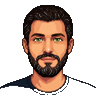
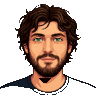
art(ch4,ch5): rehace busts derivando de bases aprobadas (no forge) — ch4=ch3+barba, ch5=ch2+barba
Rafael: "arruinaste ch5 (barba recta irreal), usa de base ch2 pero con barba;
ch4 es ch3 pero con la barba apenas más larga". El enfoque forge driftaba; ahora
se derivan de busts aprobados con edición PIL mínima.

ch4 (iter7): copia exacta de ch3-bust + barba extendida ~4 filas en punta natural.
ch5 (iter19): copia exacta de ch2-bust + barba castaño oscuro pintada siguiendo la
mandíbula (textura orgánica, borde irregular, punta natural) + pelo oscurecido de
gris a castaño (pedido de Rafael). Ambos transparentes, validados en StickyAvatar
de la app (render pixelated = pelo/barba oscuros). Versiones forge previas en old/.

diff --git a/public/assets/old/CHANGELOG.md b/public/assets/old/CHANGELOG.md
@@ -547,3 +547,17 @@ Aplica colectivamente a los 4 assets parallax originales de ch4 (Plan 04-04 W2).
   - iter17 (`old/ch5-bust-2026-06-01-iter17-grey-hair.png`): regen bg="lava" + flood-fill → transparencia OK pero pelo gris/canoso + calvicie (drift). Rechazada.
   - iter18 (final): regen bg="lava" forzando pelo castaño denso + barba larga oscura. Transparencia OK. Quedaron artefactos cyan semi-transparentes (alpha 15-53) tipo "icicle" en barba/bajo-ojos (restos del flood-fill del lava). **Fix post-proceso (PIL, main session):** densificado de barba + kill de píxeles cyan (b>r+12, b>90) sin importar alpha → castaño en barba / piel en mejilla. Validado pixel-sample vs ch3 (pelo #1B0A04, piel #FCB57D, barba #1C0A05, ojos sage, ropa navy #151F2D) + render en app (avatar OK).
 - **Commit hash del cambio:** `aaf4b30`
+
+## ch4-bust.png — iter6 → iter7 (2026-06-01, cambio de enfoque)
+
+- **Versión guardada:** `old/ch4-bust-2026-06-01-iter6-forge-shorthair.png` (forge, pelo corto, commit `ad1a349`)
+- **Razón del cambio:** Rafael: "ch4 es ch3 pero con la barba apenas más larga". El enfoque forge (cara nueva) no era lo pedido — quiere literalmente ch3 con barba un poco más larga.
+- **Qué se hizo:** ch4 = COPIA exacta de ch3-bust.png + extensión de la barba (punta del mentón ~4 filas más, tapered/natural) vía PIL. Mismo pelo, cara, ojos, piel y colores que ch3. Verificado en app (StickyAvatar).
+- **Commit hash del cambio:** `ad8170e`
+
+## ch5-bust.png — iter18 → iter19 (2026-06-01, cambio de enfoque)
+
+- **Versión guardada:** `old/ch5-bust-2026-06-01-iter18-forge-cyanfix.png` (forge + fix cyan, commit `ad1a349`)
+- **Razón del cambio:** Rafael: "arruinaste ch5, barba recta irreal. Usa de base ch2 pero con barba". El forge driftó (barba irreal tras pixel-surgery). Decisión: derivar de un bust aprobado en vez de generar cara nueva.
+- **Qué se hizo:** ch5 = COPIA exacta de ch2-bust.png (pelo corto, cara, ojos, piel, camisa navy intactos) + barba castaño oscuro PINTADA siguiendo la mandíbula real de ch2 (textura orgánica dispersa, borde superior irregular, punta natural — NO recta). Color barba de ch3 (#0E0100). Luego, por pedido de Rafael, pelo de ch2 oscurecido de gris/canoso → castaño (matchea barba/ch3/ch4). Validado en app: pelo y barba oscuros, transparente. NOTA: en upscale LANCZOS el pelo se ve gris (artefacto de mezcla con fondo transparente); el dato real y el render pixelated de la app son castaño oscuro.
+- **Commit hash del cambio:** `ad8170e`